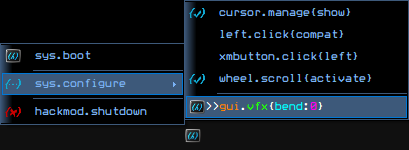
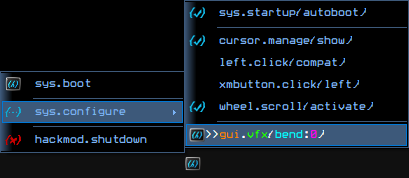
1.0.7

diff --git a/README.md b/README.md
@@ -11,15 +11,19 @@
 - `sys.boot` <sub>launches hackmud</sub>
 
 - `sys.configure`
+  
+     ---
+
+  - `sys.startup{autoboot}` <sub><sup>launch hackmud when starting hackmod</sub>
  
-  - `cursor.manage{show}` <sub>toggle on or off showing cursor</sub>
+  - `cursor.manage{show}` <sub><sup>toggle on or off showing cursor</sub>
 
-  - `left.click{compat}` <sub>vnc compatibility mode to prevent dragbox</sub>
+  - `left.click{compat}` <sub><sup>vnc compatibility mode to prevent dragbox</sub>
 
-  - `xmbutton.click{left}` <sub>pressing extramousebutton 1 or 2 instead sends a left click to hackmud</sub><br>&nbsp;&nbsp;&nbsp;&nbsp;&nbsp;&nbsp;&nbsp;&nbsp;&nbsp;&nbsp;&nbsp;&nbsp;&nbsp;&nbsp;&nbsp;&nbsp;&nbsp;&nbsp;&nbsp;&nbsp;&nbsp;&nbsp;&nbsp;&nbsp;&nbsp;&nbsp;&nbsp;&nbsp;&nbsp;&nbsp;&nbsp;&nbsp;&nbsp;&nbsp;&nbsp;&nbsp;&nbsp;&nbsp;&nbsp;&nbsp;&nbsp;&nbsp;&nbsp;&nbsp;&nbsp;&nbsp;&nbsp;&nbsp;&nbsp;&nbsp;&nbsp;&nbsp;&nbsp;&nbsp;&nbsp;&nbsp;&nbsp;&nbsp;&nbsp;&nbsp;&nbsp;&nbsp;&nbsp;&nbsp;&nbsp;&nbsp;&nbsp;&nbsp;<sub>these buttons are also known as back/forward</sub>
+  - `xmbutton.click{left}` <sub><sup>pressing extramousebutton 1 or 2 instead sends a left click to hackmud</sub><br>&nbsp;&nbsp;&nbsp;&nbsp;&nbsp;&nbsp;&nbsp;&nbsp;&nbsp;&nbsp;&nbsp;&nbsp;&nbsp;&nbsp;&nbsp;&nbsp;&nbsp;&nbsp;&nbsp;&nbsp;&nbsp;&nbsp;&nbsp;&nbsp;&nbsp;&nbsp;&nbsp;&nbsp;&nbsp;&nbsp;&nbsp;&nbsp;&nbsp;&nbsp;&nbsp;&nbsp;&nbsp;&nbsp;&nbsp;&nbsp;&nbsp;&nbsp;&nbsp;&nbsp;&nbsp;&nbsp;&nbsp;&nbsp;&nbsp;&nbsp;&nbsp;&nbsp;&nbsp;&nbsp;&nbsp;&nbsp;&nbsp;&nbsp;&nbsp;&nbsp;&nbsp;&nbsp;&nbsp;&nbsp;&nbsp;&nbsp;&nbsp;&nbsp;<sub><sup>these buttons are also known as back/forward</sub>
 
-   - `wheel.scroll{activate}` <sub>scrolling hackmud with it inactive activates and brings it to front</sub>
+   - `wheel.scroll{activate}` <sub><sup>scrolling hackmud with it inactive activates and brings it to front</sub>
 
-   - `>>gui.vfx{bend:0}` <sub>sends command to hackmud so cursor lines up better</sub>
-
-- `hackmod.shutdown` <sub>closes hackmod</sub>
+   - `>>gui.vfx{bend:0}` <sub><sup>sends command to hackmud so cursor lines up better</sub>
+  ---
+- `hackmod.shutdown` <sub><sup>closes hackmod</sub>
